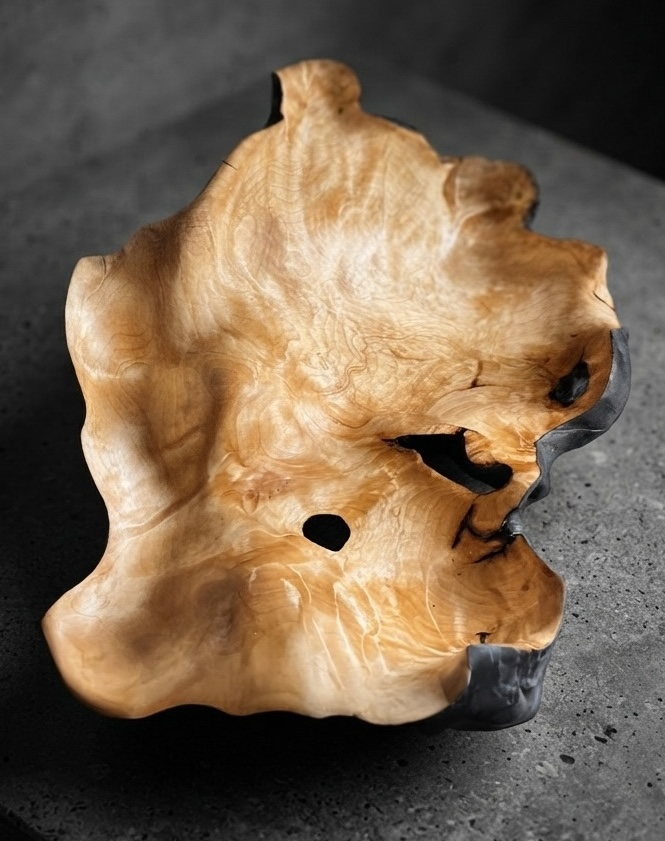
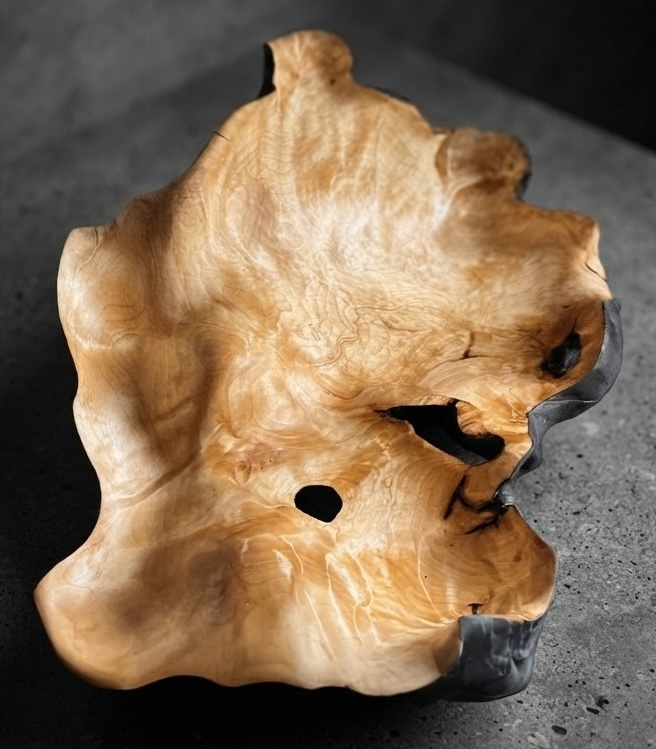
copy: home tagline; works TG btn; remove tri shaga; curators PDF

diff --git a/works/index.html b/works/index.html
@@ -1117,7 +1117,6 @@ footer a[href^="mailto:"],
     <section id="kak-kupit" class="container" style="margin-bottom: 90px;">
       <div style="background: #F8F9FA; border: 1px solid var(--color-border); padding: 48px 36px;">
         <h2 class="section-title page-title-16">КАК КУПИТЬ</h2>
-        <p class="caption" style="font-size: 15px; color: var(--color-muted); margin-bottom: 0;">три шага — от выбора до доставки</p>
         <div style="height: 28px;"></div>
         <div style="height: 28px;"></div>
 
@@ -1142,7 +1141,7 @@ footer a[href^="mailto:"],
         </div>
 
         <div style="border-top: 1px solid var(--color-border); padding-top: 28px; display: flex; align-items: center; justify-content: space-between; flex-wrap: wrap; gap: 16px;">
-          <a href="https://t.me/bycraft" target="_blank" rel="noopener noreferrer" class="btn-telegram">Перейти в Telegram-канал</a>
+          <a href="https://t.me/bycraft" target="_blank" rel="noopener noreferrer" class="btn-telegram">Telegram-канал</a>
           <p class="lead-text" style="font-size: 14.5px; color: var(--color-secondary); margin-top: 14px; margin-bottom: 0;"></p>
         </div>
       </div>

diff --git a/curators/index.html b/curators/index.html
@@ -1135,7 +1135,7 @@ footer a[href^="mailto:"],
           </p>
         </div>
         <div>
-          <a href="javascript:void(0);" onclick="window.openBycraftModal && window.openBycraftModal(event); return false;" class="btn-telegram" role="button">Запросить PDF →</a>
+          <a href="javascript:void(0);" onclick="window.openBycraftModal && window.openBycraftModal(event); return false;" class="btn-telegram" role="button">Запросить PDF</a>
           <p class="lead-text" style="font-size: 14.5px; color: var(--color-secondary); margin-top: 14px; margin-bottom: 0;"></p>
         </div>
       </div>

diff --git a/index.html b/index.html
@@ -1000,7 +1000,7 @@ footer a[href^="mailto:"],
         <div class="hm-cell hm-text hm-text-top hm-text-left"><span>2026</span></div>
       </div>
       <div class="hero-mosaic-caption">
-        <p class="hero-mosaic-tagline">СОЗДАНО ПРИРОДОЙ. ЗАВЕРШЕНО ЧЕЛОВЕКОМ</p>
+        <p class="hero-mosaic-tagline">СОЗДАНО ПРИРОДОЙ ЗАВЕРШЕНО ЧЕЛОВЕКОМ</p>
         <a href="works/" class="btn-telegram hero-mosaic-btn">Смотреть работы</a>
       </div>
     </section>
